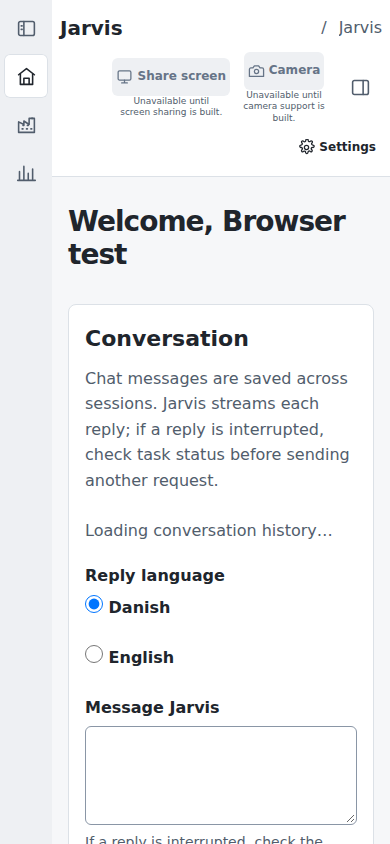
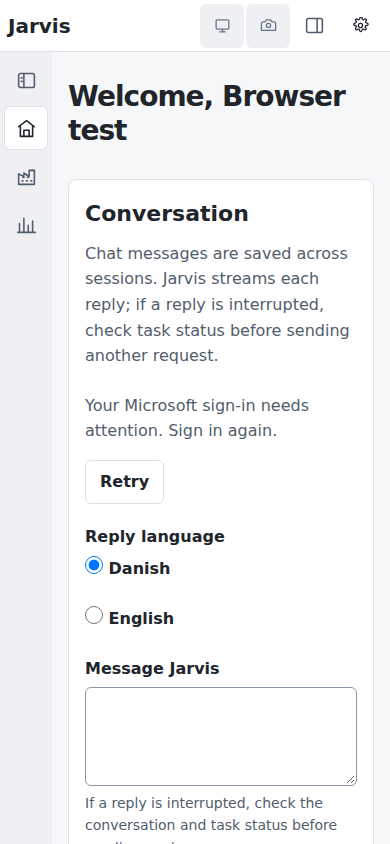
feat(ui): move shell controls into global top bar

diff --git a/apps/web/src/styles.css b/apps/web/src/styles.css
@@ -21,6 +21,7 @@ a { color: inherit; text-underline-offset: 0.2em; }
 a:focus-visible { outline: 3px solid var(--focus); outline-offset: 5px; }
 .app { min-height: 100vh; }
 .app-shell {
+  --rail-size: 56px;
   --sidebar-size: 220px;
   --context-size: 0px;
   display: grid;
@@ -28,8 +29,8 @@ a:focus-visible { outline: 3px solid var(--focus); outline-offset: 5px; }
   height: 100dvh;
   min-height: 100vh;
   min-height: 100dvh;
-  grid-template-columns: 56px minmax(0, var(--sidebar-size)) minmax(0, 1fr) minmax(0, var(--context-size));
-  grid-template-rows: 72px minmax(0, 1fr) 30px;
+  grid-template-columns: var(--rail-size) minmax(0, var(--sidebar-size)) minmax(0, 1fr) minmax(0, var(--context-size));
+  grid-template-rows: var(--rail-size) minmax(0, 1fr) 30px;
   color: var(--text);
   background: #f6f7f9;
 }
@@ -40,7 +41,7 @@ a:focus-visible { outline: 3px solid var(--focus); outline-offset: 5px; }
 .area-rail {
   z-index: 2;
   grid-column: 1;
-  grid-row: 1 / 4;
+  grid-row: 2 / 4;
   display: flex;
   flex-direction: column;
   align-items: center;
@@ -96,26 +97,29 @@ a:focus-visible { outline: 3px solid var(--focus); outline-offset: 5px; }
 .sidebar-link:hover { background: var(--rule); color: var(--text); }
 .sidebar-link[aria-current="page"] { background: var(--surface); color: var(--text); box-shadow: inset 0 0 0 1px var(--rule); }
 .app-topbar {
-  z-index: 2;
-  grid-column: 2 / 5;
+  z-index: 3;
+  grid-column: 1 / -1;
   grid-row: 1;
   display: flex;
+  height: var(--rail-size);
+  min-height: var(--rail-size);
   min-width: 0;
   align-items: center;
   justify-content: space-between;
-  gap: 8px 20px;
-  padding: 4px 20px;
+  gap: 8px;
+  padding: 4px 12px;
   background: var(--surface);
   border-bottom: 1px solid var(--rule);
 }
 .topbar-context { display: flex; min-width: 0; align-items: center; gap: 12px; color: var(--text-muted); }
 .brand { display: inline-flex; align-items: center; min-height: 44px; font-size: 20px; font-weight: 650; text-decoration: none; color: var(--text); }
 .brand:hover { text-decoration: underline; }
-.topbar-context > span:last-child { overflow: hidden; text-overflow: ellipsis; white-space: nowrap; }
-.topbar-actions { display: flex; min-width: 0; align-items: center; justify-content: flex-end; gap: 8px; }
-.topbar-feature { display: grid; justify-items: center; align-content: center; }
+.topbar-area-label { overflow: hidden; text-overflow: ellipsis; white-space: nowrap; }
+.topbar-actions { display: flex; flex: 0 0 auto; min-width: 0; flex-wrap: nowrap; align-items: center; justify-content: flex-end; gap: 8px; }
+.topbar-feature { display: flex; flex: 0 0 auto; align-items: center; justify-content: center; }
 .topbar-feature-button, .settings-link {
   display: inline-flex;
+  flex: 0 0 auto;
   align-items: center;
   justify-content: center;
   gap: 6px;
@@ -131,9 +135,9 @@ a:focus-visible { outline: 3px solid var(--focus); outline-offset: 5px; }
   text-decoration: none;
   white-space: nowrap;
 }
+.topbar-feature-button { width: 44px; min-width: 44px; padding: 0; cursor: not-allowed; }
 .topbar-feature-button svg, .settings-link svg { width: 19px; height: 19px; }
 .topbar-feature-button:disabled { background: var(--disabled-surface); color: var(--disabled-text); }
-.topbar-feature-note { max-width: 160px; color: var(--text-muted); font-size: 10px; line-height: 1.25; text-align: center; }
 .settings-link { padding-inline: 10px; }
 .settings-link:hover { background: var(--disabled-surface); }
 .settings-link[aria-current="page"] { background: var(--disabled-surface); }
@@ -162,10 +166,10 @@ a:focus-visible { outline: 3px solid var(--focus); outline-offset: 5px; }
   border-top: 1px solid var(--rule);
 }
 .database-wake-status { margin: 0; font-size: 13px; }
-.app-signed-out { height: auto; max-width: 720px; margin: 0 auto; padding: 0 32px; grid-template-columns: minmax(0, 1fr); grid-template-rows: 64px minmax(0, 1fr); }
+.app-signed-out { height: auto; min-height: 100vh; min-height: 100dvh; grid-template-columns: minmax(0, 1fr); grid-template-rows: var(--rail-size) minmax(0, 1fr); }
 .app-signed-out .area-rail, .app-signed-out .area-sidebar, .app-signed-out .context-panel { display: none; }
-.app-signed-out .app-topbar { grid-column: 1; grid-row: 1; margin: 0 -32px; padding: 8px 32px; }
-.app-signed-out .shell-main { grid-column: 1; grid-row: 2; padding: 56px 0 72px; overflow: visible; }
+.app-signed-out .app-topbar { grid-column: 1; grid-row: 1; padding-inline: 20px; }
+.app-signed-out .shell-main { grid-column: 1; grid-row: 2; width: 100%; max-width: 784px; justify-self: center; padding: 56px 32px 72px; overflow: visible; }
 .app-signed-out .bottom-bar { display: none; }
 .visually-hidden {
   position: absolute;
@@ -453,25 +457,24 @@ h3 { margin: 24px 0 8px; font-size: 17px; font-weight: 650; line-height: 1.3; }
   .app-shell { --sidebar-size: 190px; }
   .app-shell[data-navigation-open="false"] { --sidebar-size: 0px; }
   .app-shell[data-context-open="true"] { --context-size: 240px; }
-  .app-topbar { padding-inline: 12px; gap: 8px; }
+  .app-topbar { padding-inline: 8px; }
   .topbar-actions { gap: 4px; }
   .shell-main { padding-inline: 24px; }
 }
 
 @media (max-width: 700px) {
-  .app-shell { height: auto; grid-template-columns: 52px minmax(0, 1fr); grid-template-rows: auto minmax(0, 1fr) auto; }
-  .area-rail { grid-row: 1 / 4; padding: 6px 4px; }
+  .app-shell { --rail-size: 52px; height: auto; grid-template-columns: var(--rail-size) minmax(0, 1fr); grid-template-rows: var(--rail-size) minmax(0, 1fr) auto; }
+  .area-rail { grid-row: 2 / 4; padding: 6px 4px; }
   .rail-button, .rail-link { width: 44px; min-width: 44px; }
-  .app-topbar { grid-column: 2; grid-row: 1; display: grid; justify-items: stretch; gap: 2px; padding: 6px 8px; }
-  .topbar-context { min-height: 44px; justify-content: flex-end; }
-  .topbar-context .brand { margin-right: auto; }
-  .topbar-actions { flex-wrap: wrap; justify-content: flex-end; gap: 2px; }
-  .topbar-feature-button { min-height: 38px; gap: 4px; padding: 2px 4px; font-size: 12px; }
+  .app-topbar { grid-column: 1 / -1; grid-row: 1; padding-inline: 8px; }
+  .topbar-context { gap: 0; }
+  .topbar-separator, .topbar-area-label, .settings-label { display: none; }
+  .topbar-actions { gap: 2px; }
+  .topbar-feature-button { min-height: 44px; }
   .topbar-feature-button svg { width: 17px; height: 17px; }
-  .topbar-feature-note { max-width: 104px; font-size: 9px; }
   .settings-link { min-height: 44px; gap: 4px; padding-inline: 6px; font-size: 12px; }
   .settings-link svg { width: 17px; height: 17px; }
-  .topbar-icon-button { width: 44px; min-width: 44px; min-height: 44px; }
+  .topbar-icon-button, .settings-link { width: 44px; min-width: 44px; }
   .area-sidebar { grid-column: 2; grid-row: 2; padding: 8px 12px; overflow: visible; background: #eef0f3; border-right: 0; border-bottom: 1px solid var(--rule); }
   .sidebar-heading { min-height: 36px; margin: 0 0 4px; }
   .area-sidebar nav { display: flex; flex-wrap: wrap; }
@@ -480,17 +483,17 @@ h3 { margin: 24px 0 8px; font-size: 17px; font-weight: 650; line-height: 1.3; }
   .context-panel { grid-column: 2; grid-row: 2; padding: 10px 16px; overflow: visible; background: #eef0f3; border: 0; border-bottom: 1px solid var(--rule); }
   .context-panel-heading { min-height: 36px; margin-bottom: 4px; }
   .bottom-bar { grid-column: 2; grid-row: 3; min-height: 30px; padding-inline: 10px; }
-  .app-shell[data-navigation-open="true"]:not([data-context-open="true"]) { grid-template-rows: auto auto minmax(0, 1fr) auto; }
+  .app-shell[data-navigation-open="true"]:not([data-context-open="true"]) { grid-template-rows: var(--rail-size) auto minmax(0, 1fr) auto; }
   .app-shell[data-navigation-open="true"]:not([data-context-open="true"]) .area-rail,
-  .app-shell[data-navigation-open="false"][data-context-open="true"] .area-rail { grid-row: 1 / 5; }
+  .app-shell[data-navigation-open="false"][data-context-open="true"] .area-rail { grid-row: 2 / 5; }
   .app-shell[data-navigation-open="true"]:not([data-context-open="true"]) .shell-main { grid-row: 3; }
   .app-shell[data-navigation-open="true"]:not([data-context-open="true"]) .bottom-bar { grid-row: 4; }
-  .app-shell[data-navigation-open="false"][data-context-open="true"] { grid-template-rows: auto auto minmax(0, 1fr) auto; }
+  .app-shell[data-navigation-open="false"][data-context-open="true"] { grid-template-rows: var(--rail-size) auto minmax(0, 1fr) auto; }
   .app-shell[data-navigation-open="false"][data-context-open="true"] .context-panel { grid-row: 2; }
   .app-shell[data-navigation-open="false"][data-context-open="true"] .shell-main { grid-row: 3; }
   .app-shell[data-navigation-open="false"][data-context-open="true"] .bottom-bar { grid-row: 4; }
-  .app-shell[data-navigation-open="true"][data-context-open="true"] { grid-template-rows: auto auto auto minmax(0, 1fr) auto; }
-  .app-shell[data-navigation-open="true"][data-context-open="true"] .area-rail { grid-row: 1 / 6; }
+  .app-shell[data-navigation-open="true"][data-context-open="true"] { grid-template-rows: var(--rail-size) auto auto minmax(0, 1fr) auto; }
+  .app-shell[data-navigation-open="true"][data-context-open="true"] .area-rail { grid-row: 2 / 6; }
   .app-shell[data-navigation-open="true"][data-context-open="true"] .area-sidebar { grid-row: 2; }
   .app-shell[data-navigation-open="true"][data-context-open="true"] .context-panel { grid-row: 3; }
   .app-shell[data-navigation-open="true"][data-context-open="true"] .shell-main { grid-row: 4; }

diff --git a/apps/web/src/App.tsx b/apps/web/src/App.tsx
@@ -41,12 +41,11 @@ function UnavailableControl({ id, label, explanation, icon }: {
   icon: 'screen' | 'camera';
 }) {
   return (
-    <div className="topbar-feature">
-      <button className="topbar-feature-button" type="button" disabled aria-describedby={id}>
+    <div className="topbar-feature" title={explanation}>
+      <button className="topbar-feature-button" type="button" disabled aria-label={label} aria-describedby={id}>
         <ShellIcon name={icon} />
-        {label}
       </button>
-      <span id={id} className="topbar-feature-note">{explanation}</span>
+      <span id={id} className="visually-hidden">{explanation}</span>
     </div>
   );
 }
@@ -122,7 +121,7 @@ function Shell({ signedIn, config, session }: { signedIn: boolean; config: Publi
       <header className="app-topbar">
         <div className="topbar-context">
           <Link className="brand" to="/" aria-label="Jarvis home">Jarvis</Link>
-          {signedIn && <><span aria-hidden="true">/</span><span>{areaLabel}</span></>}
+          {signedIn && <><span className="topbar-separator" aria-hidden="true">/</span><span className="topbar-area-label">{areaLabel}</span></>}
         </div>
         {signedIn && (
           <div className="topbar-actions">
@@ -140,7 +139,7 @@ function Shell({ signedIn, config, session }: { signedIn: boolean; config: Publi
               <ShellIcon name="context" />
             </button>
             <NavLink className="settings-link" to="/settings" aria-label="Settings">
-              <ShellIcon name="settings" /><span>Settings</span>
+              <ShellIcon name="settings" /><span className="settings-label">Settings</span>
             </NavLink>
           </div>
         )}

diff --git a/apps/web/src/App.test.tsx b/apps/web/src/App.test.tsx
@@ -172,10 +172,16 @@ describe('App shell', () => {
   it('keeps Screen sharing and Camera visibly unavailable until their features are built', async () => {
     await renderSignedIn();
 
-    expect(screen.getByRole('button', { name: 'Share screen' })).toHaveProperty('disabled', true);
-    expect(screen.getByText('Unavailable until screen sharing is built.')).not.toBeNull();
-    expect(screen.getByRole('button', { name: 'Camera' })).toHaveProperty('disabled', true);
-    expect(screen.getByText('Unavailable until camera support is built.')).not.toBeNull();
+    for (const [name, explanation] of [
+      ['Share screen', 'Unavailable until screen sharing is built.'],
+      ['Camera', 'Unavailable until camera support is built.'],
+    ] as const) {
+      const button = screen.getByRole('button', { name });
+      expect(button).toHaveProperty('disabled', true);
+      expect(button.getAttribute('aria-describedby')).not.toBeNull();
+      expect(document.getElementById(button.getAttribute('aria-describedby')!)?.textContent).toBe(explanation);
+      expect(button.parentElement?.getAttribute('title')).toBe(explanation);
+    }
   });
 
   it('opens and closes the contextual shell panel without replacing page content', async () => {

diff --git a/DESIGN.md b/DESIGN.md
@@ -236,15 +236,19 @@ history.
 [ui.md](ui.md) records the confirmed structure, open questions, feature-placement
 proposals and eight static wireframes. P8-04 routes the existing pages through a
 thin left icon rail, expandable area navigation, top and bottom bars, and a
-toggleable contextual panel. Settings stays at the top-right. Screen sharing
-and Camera are the only confirmed feature controls in the top bar; each is
-visible but disabled with an explanation until its P7 capability is built.
-Other suggested top-bar controls remain out of scope.
+toggleable contextual panel. The top bar spans edge to edge above the shell;
+its height matches the area rail's width, and the rail begins beneath it.
+Settings stays at the top-right. Screen sharing and Camera are the only
+confirmed feature controls in the top bar; each is an icon-only, disabled
+control with an accessible explanation and tooltip until its P7 capability is
+built. The top bar remains one line at phone and desktop widths. Other suggested
+top-bar controls remain out of scope.
 
 The bottom bar carries the existing database-wake status when configured. The
 context panel has an honest empty state until P8-08 supplies contextual content.
-The existing neutral theme remains; final shell styling and the contents of
-these bars and panels are still open.
+The existing neutral theme remains; the specific placement and responsive
+proportions above are confirmed while other shell styling and the contents of
+these bars and panels remain open.
 
 Voice hides the shell and composer, using a full-page background and a
 state-driven orb: centred alone, left of content windows on desktop,
